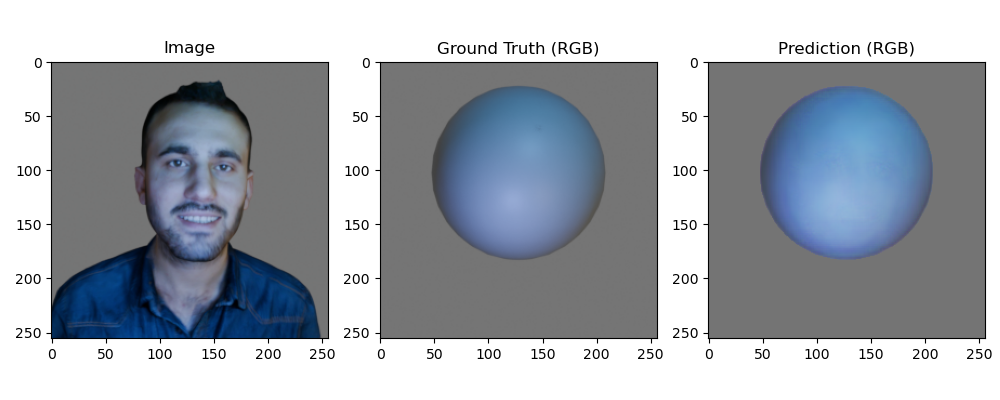
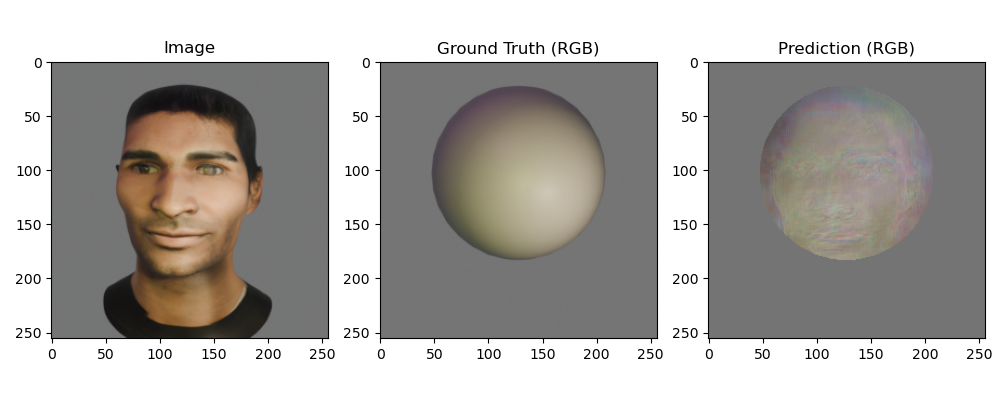
fixed mask halo

Changed region(s): [[0.031, 0.18, 0.341, 0.87], [0.744, 0.21, 0.93, 0.66], [0.434, 0.21, 0.62, 0.66]]

diff --git a/train_full.py b/train_full.py
@@ -133,20 +133,59 @@ optimizer = optim.Adam(model.parameters(), lr=args.lr)
 scheduler = CyclicLR(optimizer, base_lr=args.lr, max_lr=10.0, step_size_up=2000, step_size_down=2000, mode='triangular')
 
 # --------------- Training Loop ---------------
+# def train1(model, dataloader, optimizer, criterion, epochs):
+#     model.train()
+#     start_time = time.time()
+#     for epoch in range(epochs):
+#         epoch_loss = 0
+
+#         prgbar= tqdm(dataloader)
+#         for images, masks in prgbar:
+#             images, masks = images.to(device), masks.to(device)
+
+#             outputs = model(images)
+
+#             # Using SSIM-based loss
+#             loss = criterion(outputs, masks)  # Replacing the old loss function
+#             # print(loss) # to check ssim is between 0 to 1.
+
+#             optimizer.zero_grad()
+#             loss.backward() 
+#             optimizer.step()
+
+#             # Step the CLR scheduler after each optimizer step
+#             if args.sche==True:
+#                 scheduler.step()
+
+#             epoch_loss += loss.item()
+#         print(f"Epoch {epoch+1}/{epochs}, Loss: {epoch_loss:.4f}, Loss for one batch:{loss}")
+#         if args.sche==True:
+#             print("Current learning rate: ", scheduler.get_lr())   
+
+#     end_time = time.time()  # End timing
+#     print(f"\n Total training time: {(end_time - start_time):.2f} seconds")
+
 def train1(model, dataloader, optimizer, criterion, epochs):
     model.train()
+    mask = train_dataset.maskTensor.to(device)
+
     start_time = time.time()
     for epoch in range(epochs):
         epoch_loss = 0
+        prgbar = tqdm(dataloader, desc=f"Epoch {epoch+1}/{epochs}", unit="batch")
+        for inputs, gtruth in prgbar:
+            inputs, gtruth = inputs.to(device), gtruth.to(device)
+            
+            outputs = model(inputs)
+             # Normalize outputs before applying mask
+            outputs = torch.sigmoid(outputs) 
 
-        prgbar= tqdm(dataloader)
-        for images, masks in prgbar:
-            images, masks = images.to(device), masks.to(device)
-
-            outputs = model(images)
+            ### USE MASK ON PREDICTION AND GROUND TRUTH
+            gtruth = gtruth * mask.int().float()
+            outputs = outputs * mask.int().float()
 
             # Using SSIM-based loss
-            loss = criterion(outputs, masks)  # Replacing the old loss function
+            loss = criterion(outputs, gtruth)  # Replacing the old loss function
             # print(loss) # to check ssim is between 0 to 1.
 
             optimizer.zero_grad()
@@ -158,6 +197,7 @@ def train1(model, dataloader, optimizer, criterion, epochs):
                 scheduler.step()
 
             epoch_loss += loss.item()
+
         print(f"Epoch {epoch+1}/{epochs}, Loss: {epoch_loss:.4f}, Loss for one batch:{loss}")
         if args.sche==True:
             print("Current learning rate: ", scheduler.get_lr())   
@@ -173,14 +213,14 @@ train1(model, train_loader, optimizer, loss_func, epochs=args.e)
 #     in_channels=3,
 #     classes=3,
 # ) 
-model.load_state_dict(torch.load("traintrial.pth_l1_bs16_e500_lr1e-05_sche0.pth", weights_only=True))
+# model.load_state_dict(torch.load("traintrial.pth_l1_bs16_e500_lr1e-05_sche0.pth", weights_only=True))
 model.eval()
 
 
 # save model
-# model_name = args.mn + '_' + str(args.loss) + '_bs' + str(args.bs) + '_e' + str(args.e) + \
-#              '_lr' + str(args.lr) + '_sche' + str(args.sche) + '.pth'
-# torch.save(model.state_dict(), model_name)
+model_name = args.mn + '_' + str(args.loss) + '_bs' + str(args.bs) + '_e' + str(args.e) + \
+             '_lr' + str(args.lr) + '_sche' + str(args.sche) + '.pth'
+torch.save(model.state_dict(), model_name)
 
 # --------------- Visualization ---------------
 def normalize(img):
@@ -213,9 +253,15 @@ def visualize_prediction(model, dataset, idx=0): # TODO: check if normalize is c
     # Convert prediction to (H, W, 3) format
     pred = np.transpose(pred, (1, 2, 0))
     #print(pred[126, 69])
+
+    pred = np.clip(pred, 0, 1)  # Ensure values are between 0 and 1
+    
+    # Apply background color only where mask is 0
+    bg_color = np.array([0.4588, 0.4588, 0.4588])
+    pred_with_bg = pred * mask_3d + bg_color * (1 - mask_3d)
     
     # Apply background color directly
-    pred_with_bg = np.where(mask_3d, pred, np.array([0.4588, 0.4588, 0.4588]))
+    # pred_with_bg = np.where(mask_3d, pred, np.array([0.4588, 0.4588, 0.4588]))
     # pred_with_bg = np.array(pred_with_bg).astype(np.float32) / 255.0
     
     # pred_with_bg = minmaxscale(gtruth) * train_dataset.mask_3d
@@ -249,7 +295,7 @@ os.makedirs(output_dir, exist_ok=True)
 
 # Visualize result
 for i in range(5):
-    visualize_prediction(model, train_dataset, idx=i)
+    visualize_prediction(model, test_dataset, idx=i)
 
 
 
